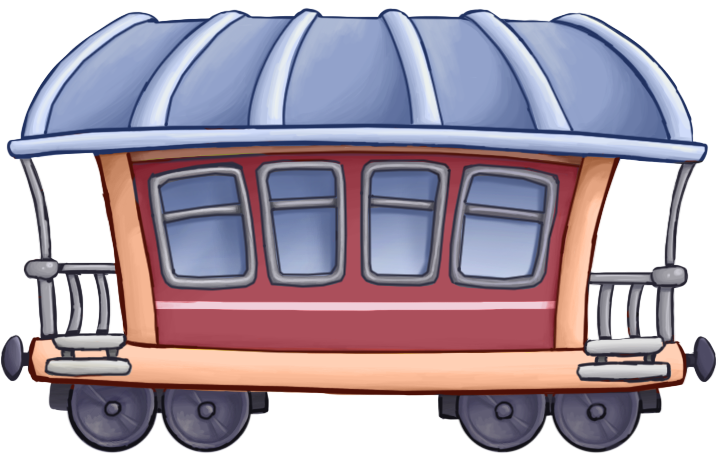
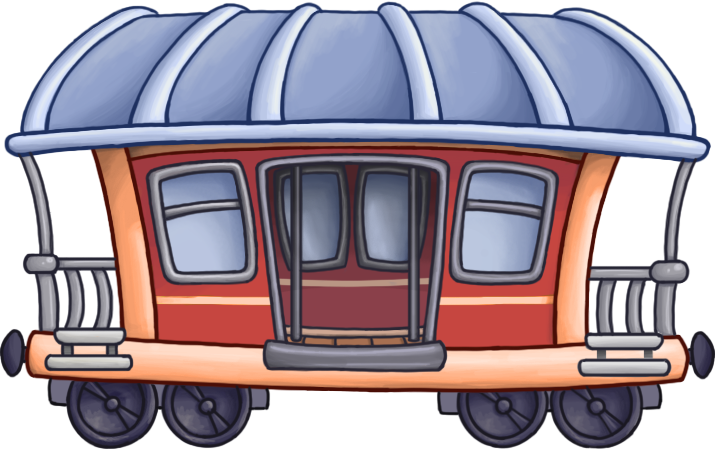
Wagon doors

diff --git a/ts/Objects/Train/WagonDoors.ts b/ts/Objects/Train/WagonDoors.ts
@@ -1,0 +1,59 @@
+module ExamAssignmentMA {
+    export class WagonDoors extends Phaser.Group {
+        public closed: Phaser.Signal;
+        private openTween: Phaser.Tween;
+        private openNormal: number;
+        private leftDoor: Phaser.Image;
+        private rightDoor: Phaser.Image;
+        private wagon: Wagon;
+
+        constructor(game: Phaser.Game, wagon: Wagon) {
+            super(game);
+            this.wagon = wagon;
+            this.openNormal = 0;
+            this.closed = new Phaser.Signal();
+            this.leftDoor = this.game.add.image(0, 0, Images.LeftDoor, null, this);
+            this.rightDoor = this.game.add.image(0, 0, Images.RightDoor, null, this);
+            this.rightDoor.scale = this.leftDoor.scale;
+            this.leftDoor.anchor.setTo(1, 1);
+            this.rightDoor.anchor.setTo(0, 1);
+        }
+
+        public open(): void {
+            if (this.openTween && this.openTween.isRunning) {
+                this.openTween.stop();
+            }
+            this.openTween = this.game.add.tween(this).to({ openAnim: 1 }, 500, Phaser.Easing.Quadratic.In, true);
+        }
+
+        public close(): void {
+            if (this.openTween && this.openTween.isRunning) {
+                this.openTween.stop();
+            }
+            this.openTween = this.game.add.tween(this).to({ openAnim: 0 }, 500, Phaser.Easing.Quadratic.In, true);
+            this.openTween.onComplete.addOnce(this.onClosed, this);
+        }
+
+        private onClosed(): void {
+            this.closed.dispatch();
+        }
+
+        public resize(): void {
+            this.x = this.wagon.width * 0.492 / this.wagon.scale.x;
+            this.y = this.wagon.height * -0.1 / this.wagon.scale.y;
+            this.leftDoor.height = this.wagon.height * 0.5 / this.wagon.scale.y;
+            this.leftDoor.scale.x = this.leftDoor.scale.y;
+            this.openAnim = this.openNormal;
+        }
+
+        private get openAnim(): number {
+            return this.openNormal;
+        }
+
+        private set openAnim(value: number) {
+            this.openNormal = value;
+            this.rightDoor.x = this.wagon.width * 0.1 * value / this.wagon.scale.x;
+            this.leftDoor.x = -this.rightDoor.x;
+        }
+    }
+}

diff --git a/ts/Objects/Train/Wagons/CargoWagon.ts b/ts/Objects/Train/Wagons/CargoWagon.ts
@@ -5,6 +5,7 @@
     export class CargoWagon extends Wagon {
 
         private cargoIndicator: CargoIndicator;
+        private wagonDoors: WagonDoors;
 
         /**
          * @param game The active game instance to be added to.
@@ -12,14 +13,17 @@
         constructor(game: Phaser.Game) {
             super(game);
             this.cargoIndicator = new CargoIndicator(this.game);
+            this.wagonDoors = new WagonDoors(this.game, this);
             this.cargoIndicator.wagonFilled.add(this.onWagonFilled, this);
             this.addChild(this.cargoIndicator);
+            this.addChild(this.wagonDoors);
             this.moveInDone.add(this.movedIn, this);
             this.resize();
         }
 
         private movedIn(): void {
             this.cargoIndicator.setFirstCargoEffect();
+            this.wagonDoors.open();
         }
 
         /**
@@ -44,7 +48,10 @@
         }
 
         private onWagonFilled(): void {
-            this.objectiveDone.dispatch(this);
+            this.wagonDoors.close();
+            this.wagonDoors.closed.addOnce(() => {
+                this.objectiveDone.dispatch(this);
+            });
         }
 
         /**
@@ -54,6 +61,7 @@
         public resize(): void {
             super.resize();
             this.cargoIndicator.resize();
+            this.wagonDoors.resize();
         }
 
         /**

diff --git a/ts/Data/Images.ts b/ts/Data/Images.ts
@@ -28,6 +28,8 @@ module ExamAssignmentMA {
         public static Background_01: string = 'backgroundTrees.jpg';
         public static Platform_01: string = 'trainstationPavement.jpg';
         public static ParticleStar: string = 'particleStar.png';
+        public static LeftDoor: string = 'wagonDoorLeft.png';
+        public static RightDoor: string = 'wagonDoorRight.png';
         // GameOver
         public static GameOverBG: string = 'endScreenBackground.jpg';
         public static GameOverFG: string = 'endscreenForground.png';
@@ -60,7 +62,9 @@ module ExamAssignmentMA {
             Images.GameOverBG,
             Images.GameOverFG,
             Images.TutorialBG,
-            Images.ParticleStar
+            Images.ParticleStar,
+            Images.LeftDoor,
+            Images.RightDoor
         ];
     }
 }

diff --git a/vendor/references.ts b/vendor/references.ts
@@ -17,6 +17,7 @@
 /// <reference path="../ts/Objects/Train/CargoIndicator/CargoIcon.ts" />
 /// <reference path="../ts/Objects/Train/CargoIndicator/CargoIndicator.ts" />
 /// <reference path="../ts/Objects/Train/Train.ts" />
+/// <reference path="../ts/Objects/Train/WagonDoors.ts" />
 /// <reference path="../ts/Objects/Train/WagonFactory.ts" />
 /// <reference path="../ts/Objects/Train/WagonTypes.ts" />
 /// <reference path="../ts/Objects/Train/Wagons/Caboose.ts" />
